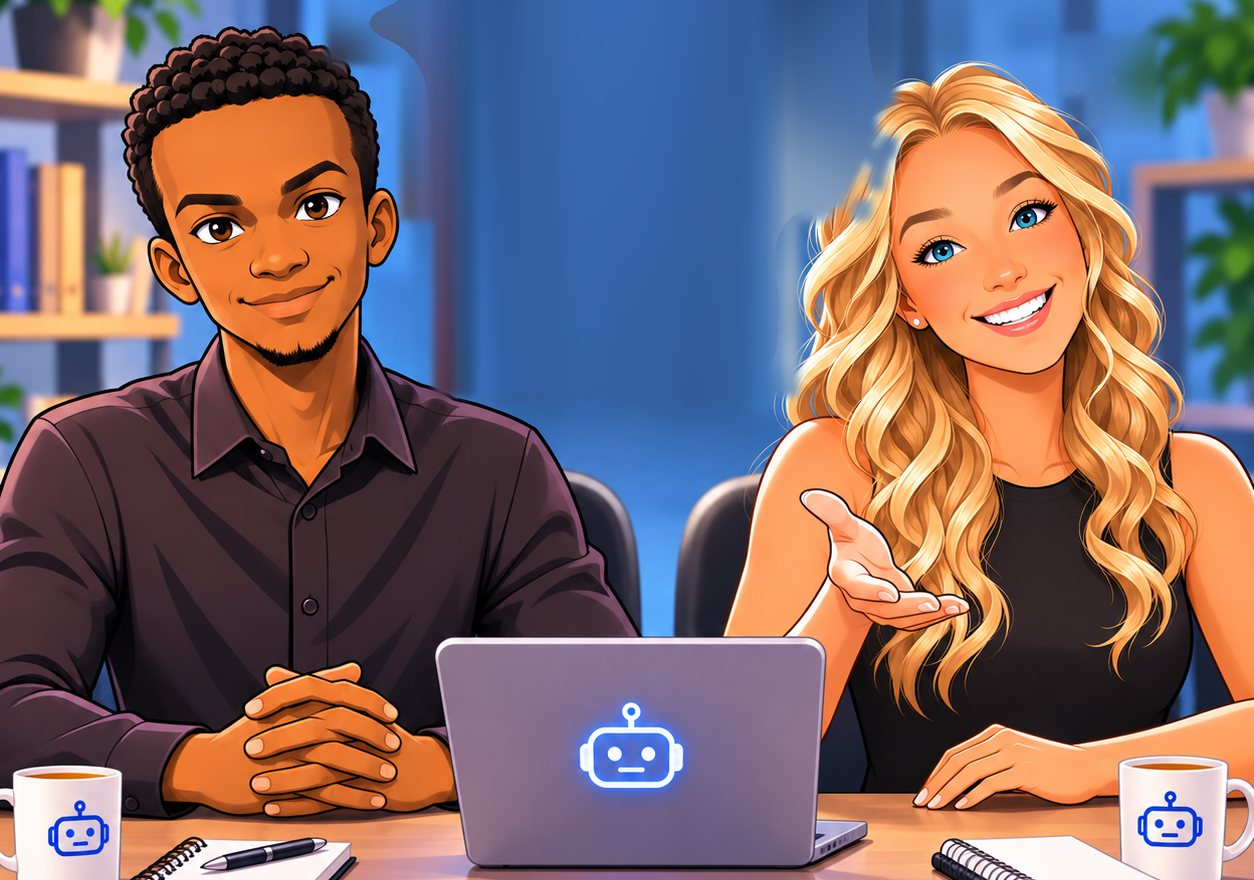
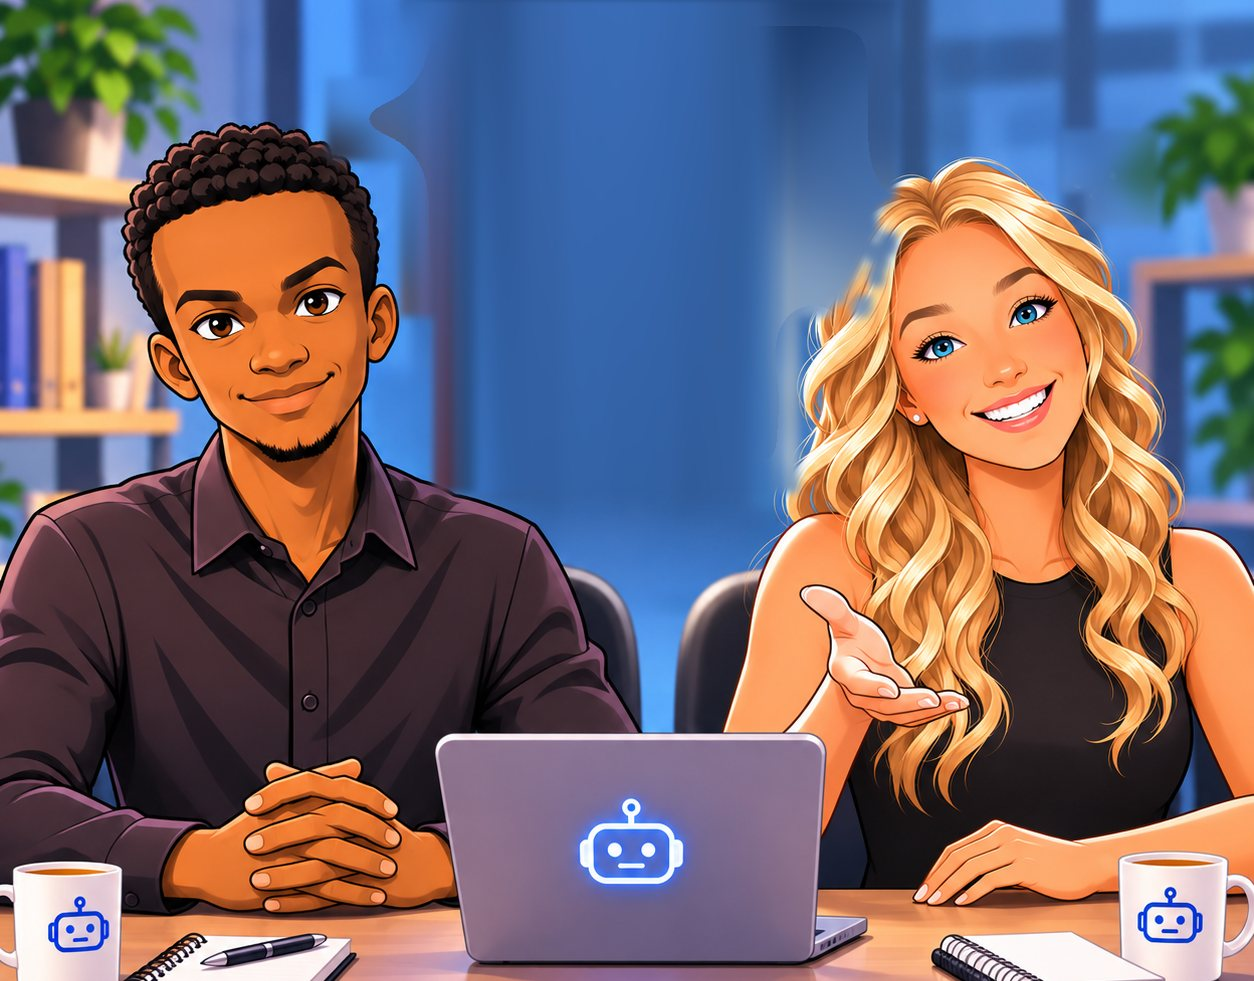
Zoom the interview room out so both faces and the full scene are visible
Claude-Session: https://claude.ai/code/session_01BxGejBqus3yCSgEKXyRFLc

diff --git a/interview.html b/interview.html
@@ -31,17 +31,17 @@
 
     <section class="stage" id="stage" aria-label="Your interviewers, Roland and Makenzie, seated at a desk">
       <div class="scene">
-        <img class="scene-base" src="images/interview-room.jpg" alt="Roland and Makenzie, two senior interviewers, seated side by side at a desk with a laptop" width="1254" height="880">
-        <div class="actor" data-seat="roland" style="--clip:polygon(0 0,48.6% 0,48.6% 51%,0 51%);--ox:21%;--oy:50%">
+        <img class="scene-base" src="images/interview-room.jpg" alt="Roland and Makenzie, two senior interviewers, seated side by side at a desk with a laptop" width="1254" height="981">
+        <div class="actor" data-seat="roland" style="--clip:polygon(0 0,48.6% 0,48.6% 55.7%,0 55.7%);--ox:21%;--oy:55%">
           <div class="figure">
-            <img src="images/interview-room.jpg" alt="" width="1254" height="880">
-            <span class="mouth" data-tilt="-11" style="--mx:22.65%;--my:33.5%;--mw:6.06%;--mh:3.4%;--lip:#a35a3c"></span>
+            <img src="images/interview-room.jpg" alt="" width="1254" height="981">
+            <span class="mouth" data-tilt="-11" style="--mx:22.65%;--my:39.9%;--mw:6.06%;--mh:3.05%;--lip:#a35a3c"></span>
           </div>
         </div>
-        <div class="actor" data-seat="makenzie" style="--clip:polygon(51% 0,100% 0,100% 51%,51% 51%);--ox:80%;--oy:50%">
+        <div class="actor" data-seat="makenzie" style="--clip:polygon(51% 0,100% 0,100% 55.7%,51% 55.7%);--ox:80%;--oy:55%">
           <div class="figure">
-            <img src="images/interview-room.jpg" alt="" width="1254" height="880">
-            <span class="mouth" data-tilt="-18" style="--mx:80.4%;--my:35.1%;--mw:5.6%;--mh:3.4%;--lip:#e0837c"></span>
+            <img src="images/interview-room.jpg" alt="" width="1254" height="981">
+            <span class="mouth" data-tilt="-18" style="--mx:80.4%;--my:41.3%;--mw:5.6%;--mh:3.05%;--lip:#e0837c"></span>
           </div>
         </div>
         <span class="tag tag-left" data-tag="roland">Roland · Senior Interviewer</span>

diff --git a/styles.css b/styles.css
@@ -501,7 +501,7 @@ button { font-family: inherit; }
 @media (max-width: 640px) { .stage-caption { font-size: 13px; bottom: 6%; padding: 8px 12px; } .stage-sound span { display: none; } .stage-sound { padding: 0 10px; } .tag { font-size: 10px; padding: 3px 8px; } }
 
 /* ---------- interview room: one scene, two animated layers ---------- */
-.stage { position: relative; width: min(100%, calc(62vh * 1.425)); margin: 0 auto; aspect-ratio: 1254 / 880; overflow: hidden; border-radius: 20px; border: 1px solid var(--line); background: #1b4a9c; isolation: isolate; }
+.stage { position: relative; width: min(100%, calc(72vh * 1.278)); margin: 0 auto; aspect-ratio: 1254 / 981; overflow: hidden; border-radius: 20px; border: 1px solid var(--line); background: #1b4a9c; isolation: isolate; }
 .scene { position: absolute; inset: 0; }
 .scene img { display: block; width: 100%; height: 100%; }
 .scene-base { position: absolute; inset: 0; }
